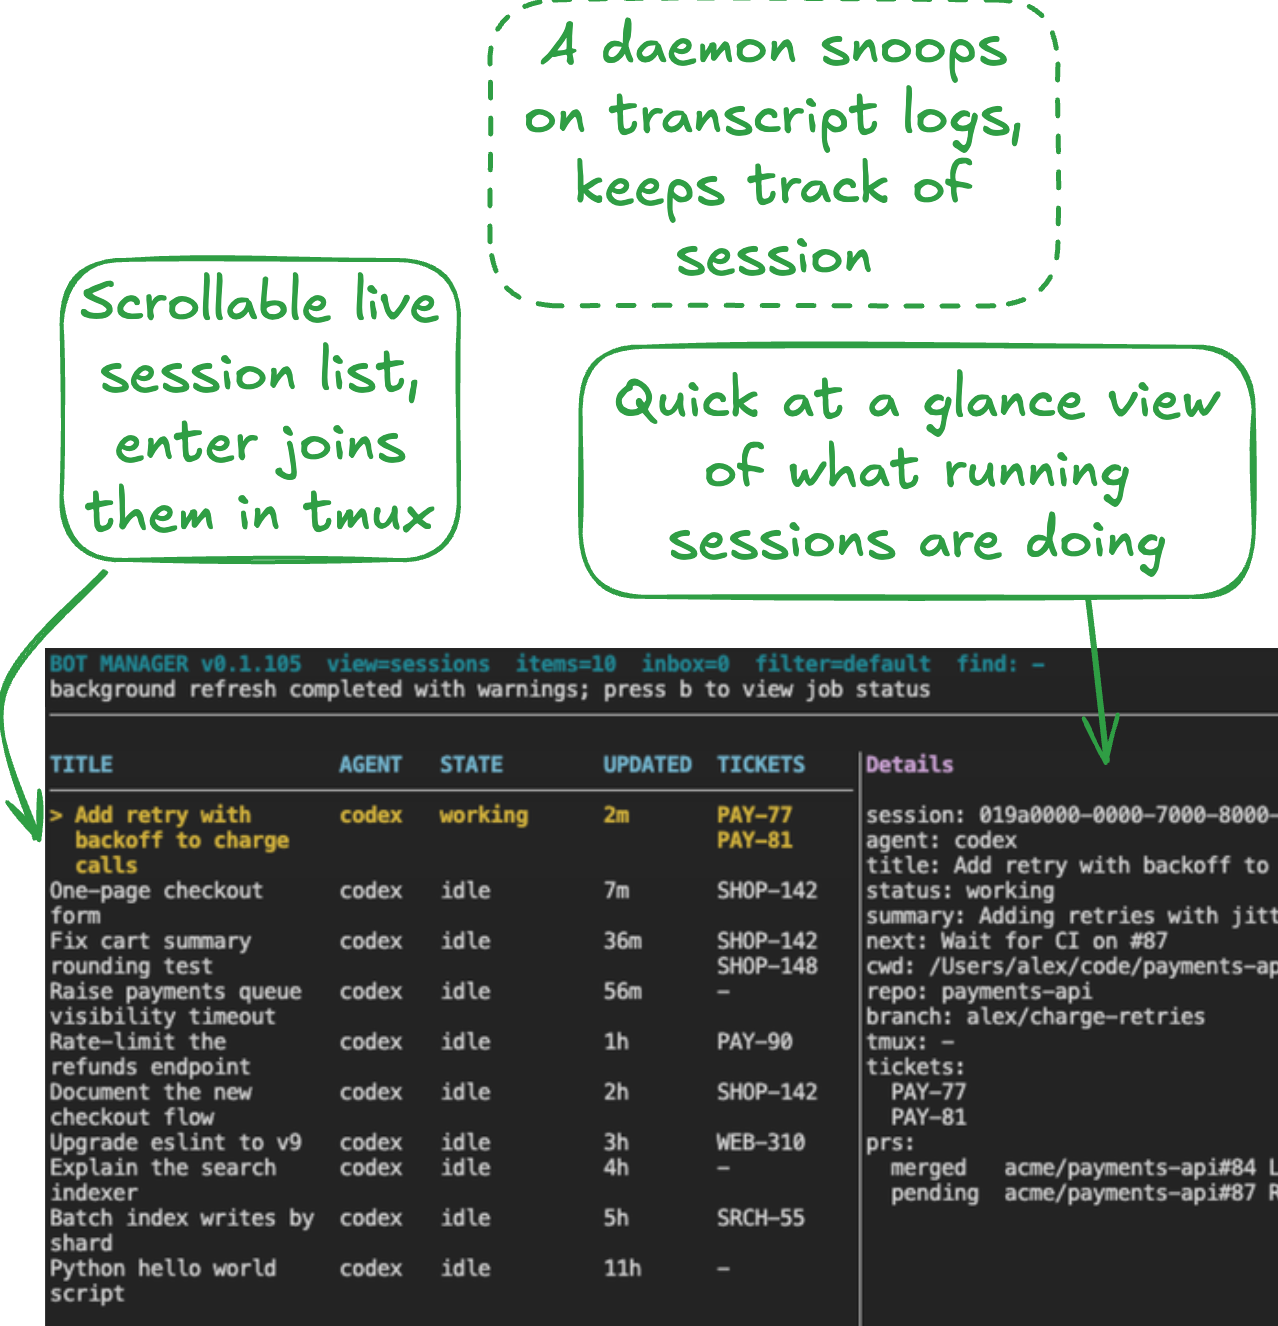
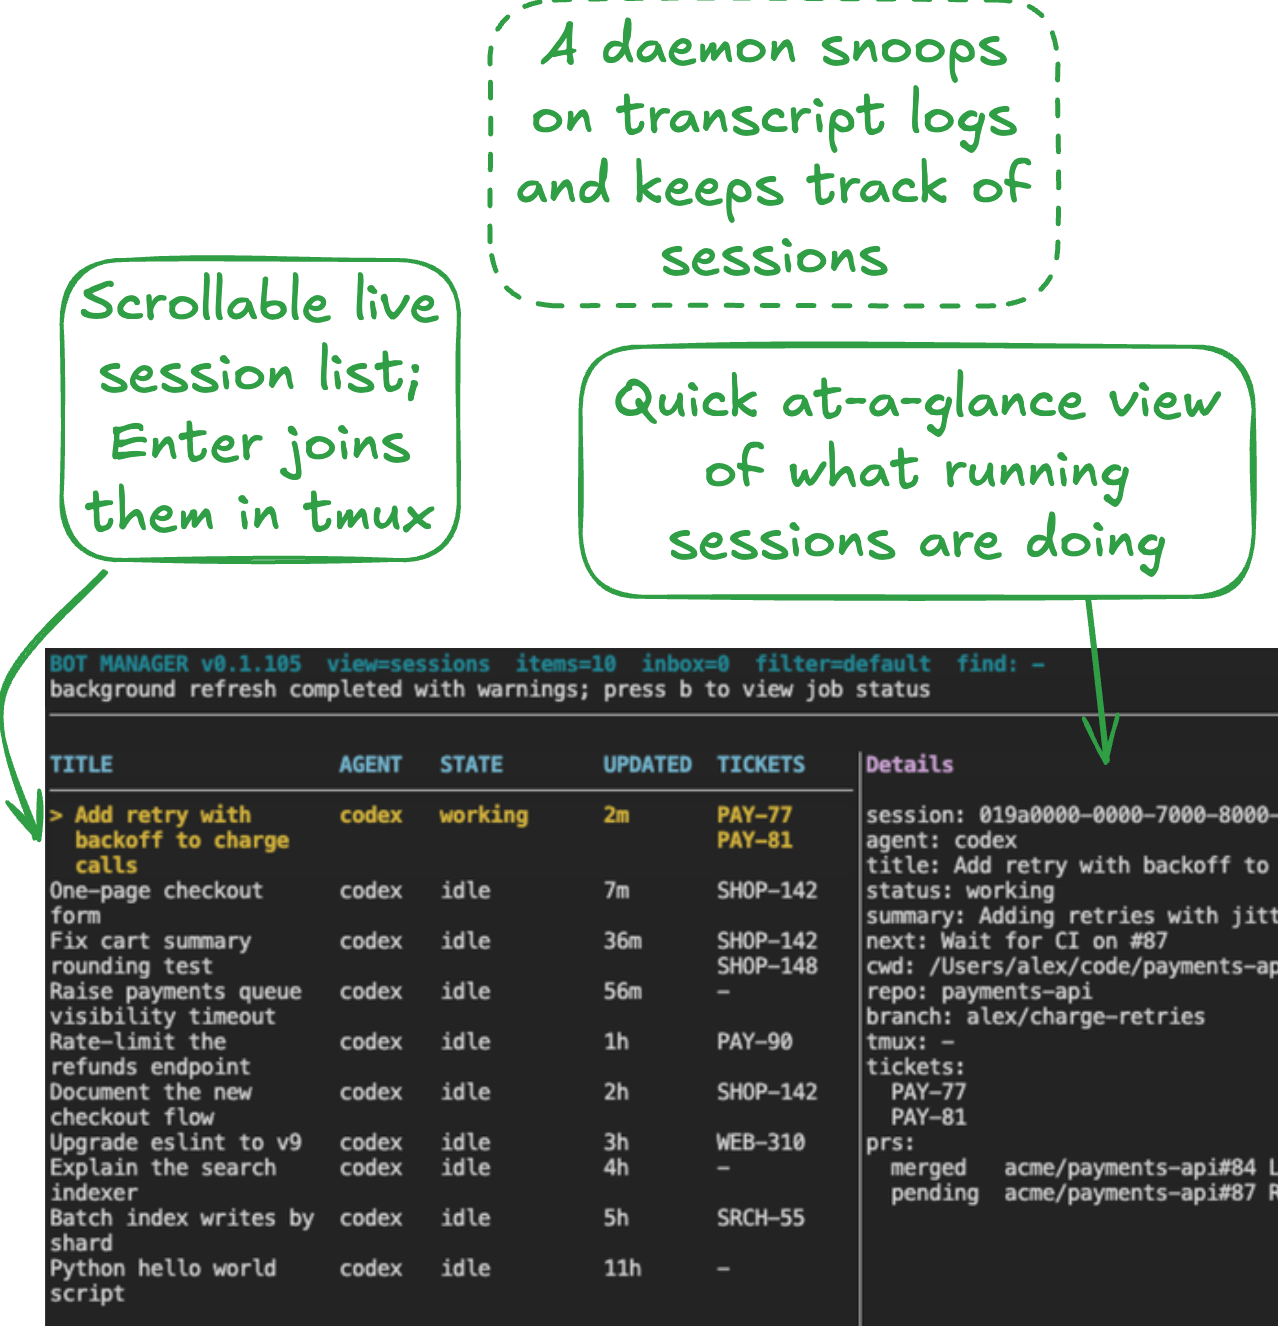
Correct multi-agent draft grammar

diff --git a/blog/multi-agent-orchestration.md b/blog/multi-agent-orchestration.md
@@ -1,22 +1,22 @@
 ---
-title: Embracing Multi Agent Development
+title: Embracing Multi-Agent Development
 date: 2026-10-14
 authors: [tom]
 image: /social-cards/multi-agent-orchestration.png
 draft: true
 ---
 
-I've adopted a multi-agent setup, and I can't see going back. I've been skeptical of token maxing tools like Gas Town, whose running cost felt inordinate and whose creator admits was mostly used to build itself. On the other hand, models are now good enough to autonomously and productively work for long periods of time. My effort now goes towards keeping the fleet on track, maintaining progress towards high level goals, and increasing the number of agents doing high quality work.
+I've adopted a multi-agent setup, and I can't see going back. I've been skeptical of token maxing tools like Gas Town, whose running cost felt inordinate and whose creator admits was mostly used to build itself. On the other hand, models are now good enough to autonomously and productively work for long periods of time. My effort now goes towards keeping the fleet on track, maintaining progress towards high-level goals, and increasing the number of agents doing high-quality work.
 
-Working this way is more similar to a pre-AI engineering manager than a pre-AI software engineer. There's less technical growth, less in depth understanding of the code. But the scope and volume of what I'm able to build is dramatically greater than it was before.
+Working this way is more similar to a pre-AI engineering manager than a pre-AI software engineer. There's less technical growth and less in-depth understanding of the code. But the scope and volume of what I'm able to build is dramatically greater than it was before.
 
-Rather than pitch yet another agent orchestrator[^1] to you, I'll go through how I landed here, what components of multi agent orchestration are important, and broader implications for the practice of software engineering.
+Rather than pitch yet another agent orchestrator[^1] to you, I'll explain how I landed here, which components of multi-agent orchestration matter, and what this shift means for the practice of software engineering.
 
 # The journey to multi-agent
 
 ## Stage 1: Sea of iTerm tabs
 
-AI allows me to make progress on several tasks at once, which I started managing with a sea of iTerm windows. This quickly got difficult to manage. Some tasks are fire and forget, while others others I need to drive myself. Managing tabs by hand didn't give me a way to distinguish between them. It was also lossy: accidentally closing a tab means resuming by fishing the session out of Codex, (or was it Claude Code?).
+AI allows me to make progress on several tasks at once, which I started managing with a sea of iTerm windows. This quickly got difficult to manage. Some tasks are fire-and-forget, while I need to drive others myself. Managing tabs by hand didn't give me a way to distinguish between them. It was also lossy: accidentally closing a tab means resuming by fishing the session out of Codex (or was it Claude Code?).
 
 ![sea-of-iterm](/diagrams/multi-agent-orchestration/sea-of-iterm.png)
 
@@ -24,7 +24,7 @@ Even when keeping tabs running, it was not always trivial to remember what each 
 
 ## Stage 2: Tmux dashboard
 
-I built a central Tmux dashboard for agent sessions. With a dash of search functionailty, the problem of losing track of sessions was solved.
+I built a central Tmux dashboard for agent sessions. With a dash of search functionality, the problem of losing track of sessions was solved.
 
 ![bot-manager-screenshot](/diagrams/multi-agent-orchestration/bot-manager-screenshot.png)
 
@@ -32,59 +32,59 @@ The architecture is simple: a daemon snoops on local transcript logs to track wh
 
 ![bot-manager](/diagrams/multi-agent-orchestration/bot-manager.png)
 
-I eventually got frustrated. Sessions would do some useful work, ask for a decision, and wait until I tabbed back to it. I was spending way too much time cycling through sessions (which I could now easily find, at least), and giving agents some variation of "keep working". It also become very difficult to keep track of the higher level goals I was working towards and understand how the different sessions in play fit together.
+I eventually got frustrated. Sessions would do some useful work, ask for a decision, and wait until I tabbed back to them. I was spending way too much time cycling through sessions (which I could now easily find, at least), and giving agents some variation of "keep working." It also became very difficult to keep track of the higher-level goals I was working towards and understand how the different sessions in play fit together.
 
-## Stage 4: Agent fleet
+## Stage 3: Agent fleet
 
-It was time for manager agents. I arranged sessions in a hierarchal graph. The root node handles dispatch, receives progress reports, and nudges inactive agents. Manager nodes keep tickets up to date, handle decisions not worth escalating to root, and ensure worker nodes are following a consistent development process. The root node makes decisions based on my previous guidance where it cans, and curates an inbox of decisions that need me.
+It was time for manager agents. I arranged sessions in a hierarchical graph. The root node handles dispatch, receives progress reports, and nudges inactive agents. Manager nodes keep tickets up to date, handle decisions not worth escalating to root, and ensure worker nodes are following a consistent development process. The root node makes decisions based on my previous guidance where it can, and curates an inbox of decisions that need me.
 
 ![tombot](/diagrams/multi-agent-orchestration/tombot.png)
 
-This also provides a natural on ramp to self improvement. When an agent does something wrong, it persists a durable correction, either through changes to node-specific `AGENTS.md` files or by changes to the routing system[^2].
+This also provides a natural on-ramp to self-improvement. When an agent does something wrong, it persists a durable correction, either by changing node-specific `AGENTS.md` files or by changing the routing system[^2].
 
 ![bot-manager-3](/diagrams/multi-agent-orchestration/bot-manager-3.png)
 
-This enabled quick development of a lot of nice to have features:
-- *Scheduled checks*: I can say to root, "check xyz metric twice a day for two weeks", and the check happens without fiddling with crontab entries.
-- *Subscription hooks*: I can automatically subscribe to incoming information, whether it be PR reviews, CI builds.
-- *Meeting notes ingestion*: After meeting with a colleague, my fleet automatically ingests Gemini notes. When I get back to development my fleet has already ingested AI generated notes and started work.
+This enabled quick development of a lot of nice-to-have features:
+- *Scheduled checks*: I can say to root, "check xyz metric twice a day for two weeks," and the check happens without fiddling with crontab entries.
+- *Subscription hooks*: I can automatically subscribe to incoming information, whether from PR reviews or CI builds.
+- *Meeting notes ingestion*: After I meet with a colleague, my fleet automatically ingests Gemini notes. When I get back to development, my fleet has already ingested AI-generated notes and started work.
 
-Since the dispatcher functions by snooping on local transcript logs, I don't _need_ to go through it to investigate something or start a new task. I can simply fire up a standalone pi session and the dispatcher will recognize a new session has started, assign a manager, and track progress.
+Since the dispatcher functions by snooping on local transcript logs, I don't _need_ to go through it to investigate something or start a new task. I can simply fire up a standalone pi session, and the dispatcher will recognize that a new session has started, assign a manager, and track progress.
 
-# Long lived agents > memory
+# Long-lived agents > memory
 
-I used to think the key to self-improving agents was _memory_. In this model, agents are cattle not pets. They boot up, load necessary context from a pool of memory, do work, and contribute back to the memory pool:
+I used to think the key to self-improving agents was _memory_. In this model, agents are cattle, not pets. They boot up, load necessary context from a pool of memory, do work, and contribute back to the memory pool:
 
 ![memories](/diagrams/multi-agent-orchestration/memories.png)
 
-But managing context via memories is _hard_. Agents working on a narrow task to lack the necessary information to determine what broader context that task informs. The most useful context from a task session is often what the status of the task is, but that information quickly goes stale.
+But managing context via memories is _hard_. Agents working on a narrow task lack the necessary information to determine what broader context that task informs. The most useful context from a task session is often what the status of the task is, but that information quickly goes stale.
 
-Building a recall system requires a delicate balancing act. Small, self contained tasks require little outside context and don't have much to contribute to a central memory pool. Recall for these sessions slows the agent down and bloats context. On the other hand, too little recall on more substantial work leads to clashes with work from other agents and dropped decisions.
+Building a recall system requires a delicate balancing act. Small, self-contained tasks require little outside context and don't have much to contribute to a central memory pool. Recall for these sessions slows the agent down and bloats context. On the other hand, too little recall on more substantial work leads to clashes with work from other agents and dropped decisions.
 
-An agent fleet arranged in a graph solves this problem much better. A central dispatcher node maintains high level awareness of what work is happening. I ask for a piece of work, the dispatcher augments with relevant context, and the work happens in the background. The dispatcher receies progress updates, reacts accordingly, and discards them.
+An agent fleet arranged in a graph solves this problem much better. A central dispatcher node maintains high-level awareness of what work is happening. I ask for a piece of work, the dispatcher augments the request with relevant context, and the work happens in the background. The dispatcher receives progress updates, reacts accordingly, and discards them.
 
 ![dispatcher](/diagrams/multi-agent-orchestration/dispatcher.png)
 
-# Tension, human code review, and agentic beauracacy
+# Tension, human code review, and agentic bureaucracy
 
-Working via an agent fleet breaks fundamental norms of pre-AI software engineering. The scale of code being produced is too much to ask human collaborators to review. Teammates who reviews PR's without AI can naturally feel resentment at being asked to review a firehose of AI generated code the author didn't read closely.
+Working via an agent fleet breaks fundamental norms of pre-AI software engineering. The scale of code being produced is too much to ask human collaborators to review. Teammates who review PRs without AI can naturally feel resentment at being asked to review a firehose of AI-generated code that the author didn't read closely.
 
-I don't disagree. Human code review of multi-agent produced code is untenable. But I don't think human code review is always _necessary_.
+I don't disagree. Human review of code produced by multiple agents is untenable. But I don't think human code review is always _necessary_.
 
 For one, AI code review (to my surprise) is _really good_. It does a much better job of catching edge cases and contract changes than a human, especially when the human reviewer is busy on other projects and is not in the weeds of the code they are reviewing[^3].
 
-But we can do better than just AI code review. We can _force the agent to prove the code works_, via what I call _agentic beauracrcy_: an unbounded set of pre-merge, pre-deploy, and post-deploy verification steps.
+But we can do better than just AI code review. We can _force the agent to prove the code works_, via what I call _agentic bureaucracy_: an unbounded set of pre-merge, pre-deploy, and post-deploy verification steps.
 
-We've always had quality assurance processes outside of code review. But while there's a limit to how much box checking a human will put up with, an agent will put up with nitpicking linters, patiently wait for long canary bake times, and dilligently check however long a list of performance and correctness metrics you want.
+We've always had quality assurance processes outside of code review. But while there's a limit to how much box checking a human will put up with, an agent will put up with nitpicking linters, patiently wait for long canary bake times, and diligently check as many performance and correctness metrics as you want.
 
 # Change
 
 We're in a time of dramatic change, and while I'm convinced working this way is more _productive_, I don't expect everyone to _like it_. The agent swarm approach to development does not play nice with human-driven development. Organizations will have to choose one, and I think the swarms are simply too productive to beat.
 
-I do have some worry for the practice of software engineering overall. Increasingly when I talk to my dispatcher session, I get a response that's both satisfying and scary: _nothing needs you right now_.
+I do have some worry for the practice of software engineering overall. Increasingly, when I talk to my dispatcher session, I get a response that's both satisfying and scary: _nothing needs you right now_.
 
 But becoming a software engineer meant signing up for rapid change, whether we acknowledged it or not. We're in the automation business. I still have confidence that software will remain an interesting and rewarding field. I just don't know how many seats there will be, or what the work will look like.
 
-[^1]: The code for this tool belongs to my company, but can be easily open sourced. If you're interested email me at hello@tombedor.dev and I'll follow up with a release.
-[^2]: Not without some nudging. Agents have an annoying habit of saying, "you're right, I won't do that again!" without actually preserving the directive in code.
-[^3]: The platonic ideal is for at least one or two teammates to have in depth, fresh context on code I was changing. I actually experienced this very rarely!
+[^1]: The code for this tool belongs to my company, but can easily be released as open source. If you're interested, email me at hello@tombedor.dev and I'll follow up with a release.
+[^2]: Not without some nudging. Agents have an annoying habit of saying, "You're right. I won't do that again!" without actually preserving the directive in code.
+[^3]: The platonic ideal is for at least one or two teammates to have in-depth, fresh context on the code being changed. I actually experienced this very rarely!
